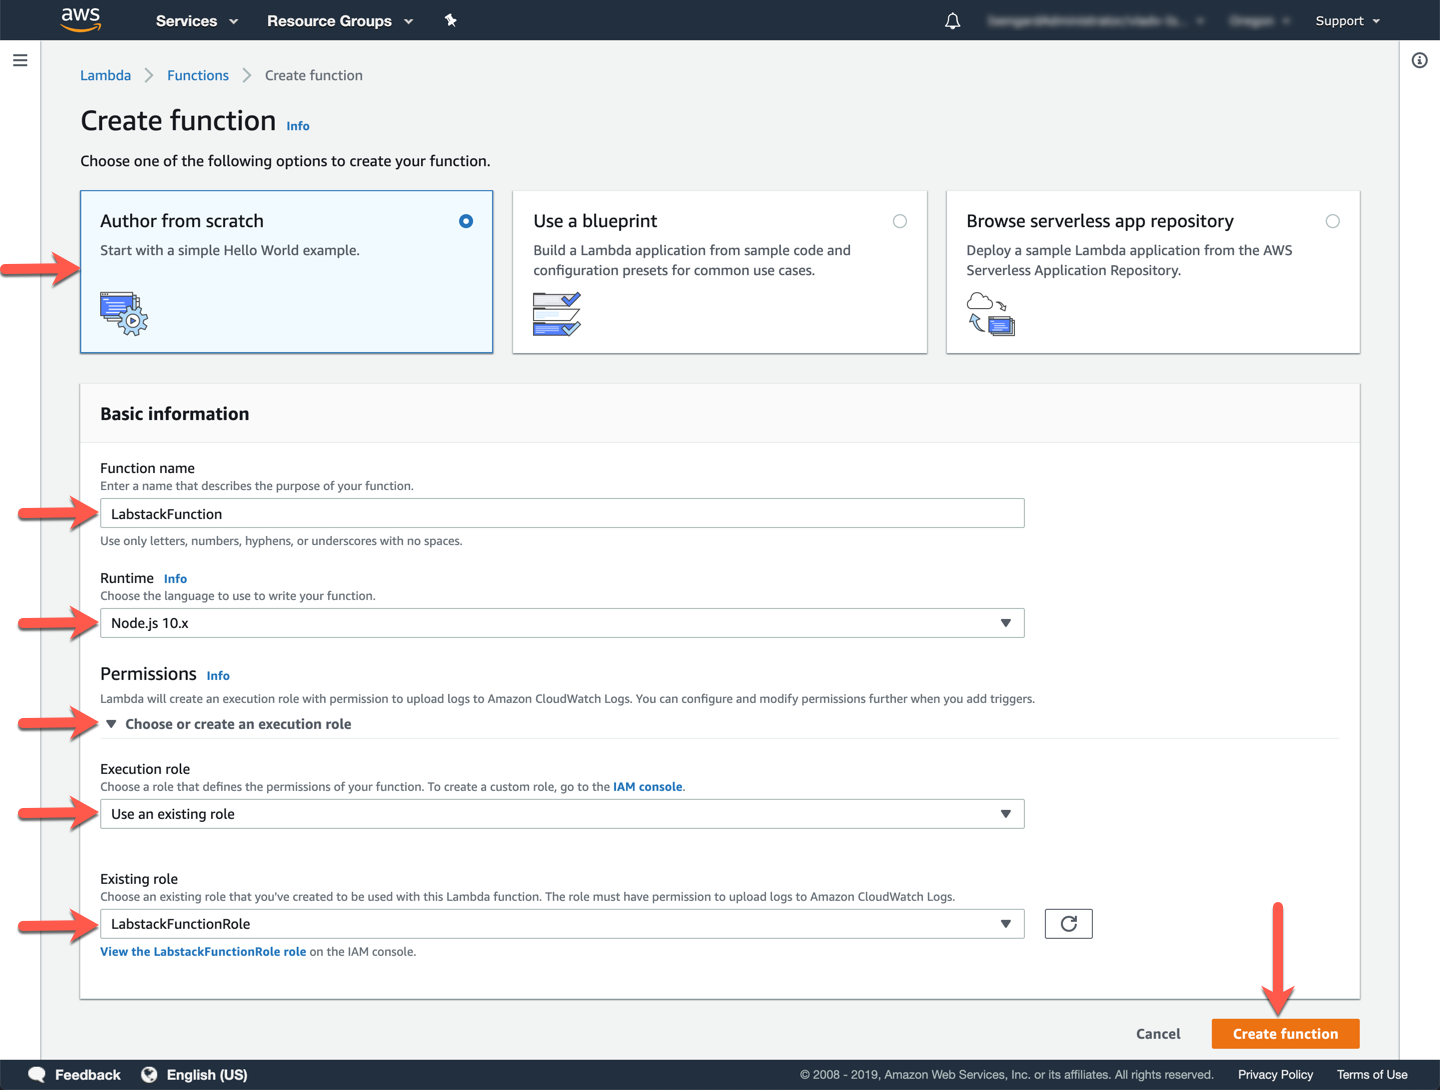
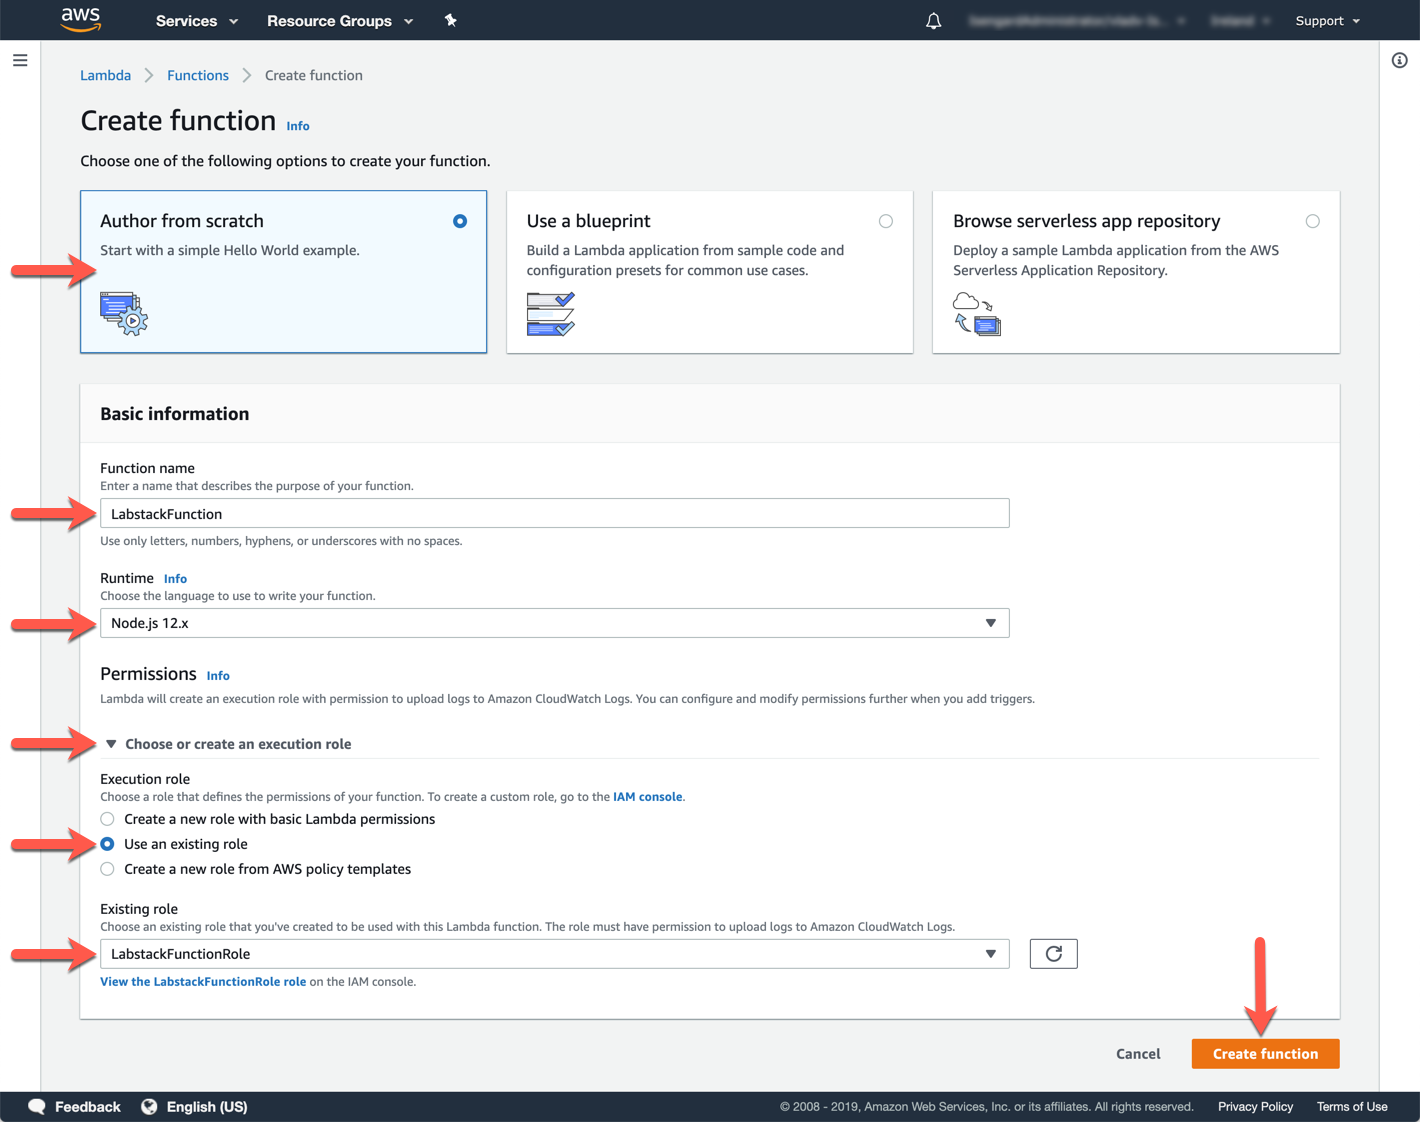
Updated screenshots and Node.js verison for Serverless Connection lab

diff --git a/docs/modules/connect-serverless/index.md b/docs/modules/connect-serverless/index.md
@@ -95,7 +95,7 @@ Choose **Functions** from the left hand side menu, if it isn't already selected,
 
 <span class="image">![Lambda Listing](2-lambda-listing.png?raw=true)</span>
 
-Choose the option to **Author from scratch**, set the **Function name** to `LabstackFunction` and select **Node.js 10.x** for **Runtime**. Under **Permissions**, expand the sub-section called **Choose or create an execution role**. In the **Execution role** dropdown, select **Use an existing role**, then in the **Existing role** dropdown, select the execution role you have created previously, named `LabstackFunctionRole`. Click **Create function**.
+Choose the option to **Author from scratch**, set the **Function name** to `LabstackFunction` and select **Node.js 12.x** for **Runtime**. Under **Permissions**, expand the sub-section called **Choose or create an execution role**. In the **Execution role** dropdown, select **Use an existing role**, then in the **Existing role** dropdown, select the execution role you have created previously, named `LabstackFunctionRole`. Click **Create function**.
 
 <span class="image">![Name Function](2-lambda-create.png?raw=true)</span>
 
